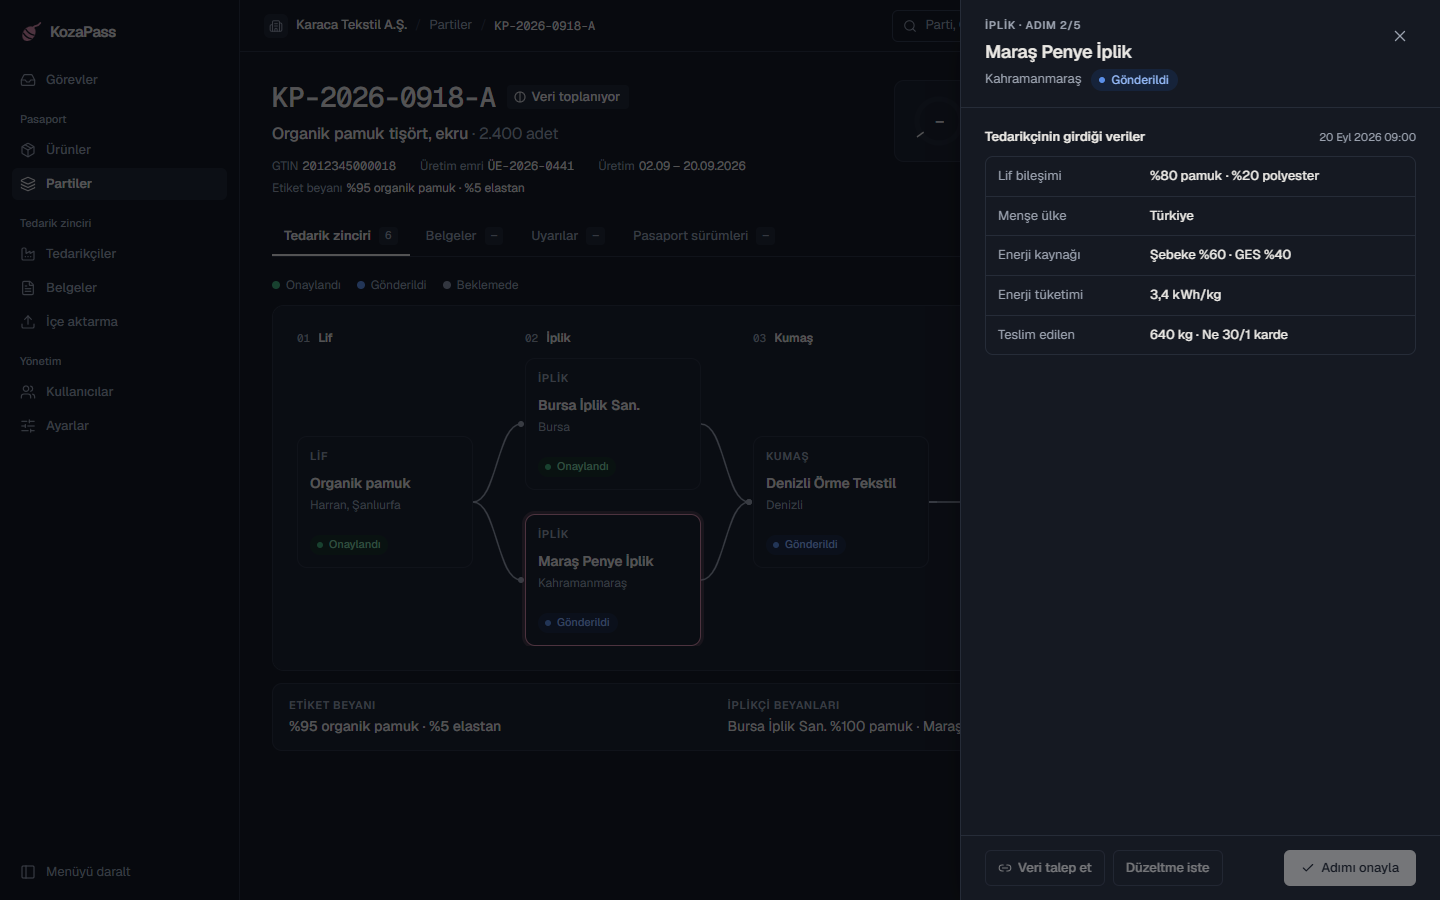
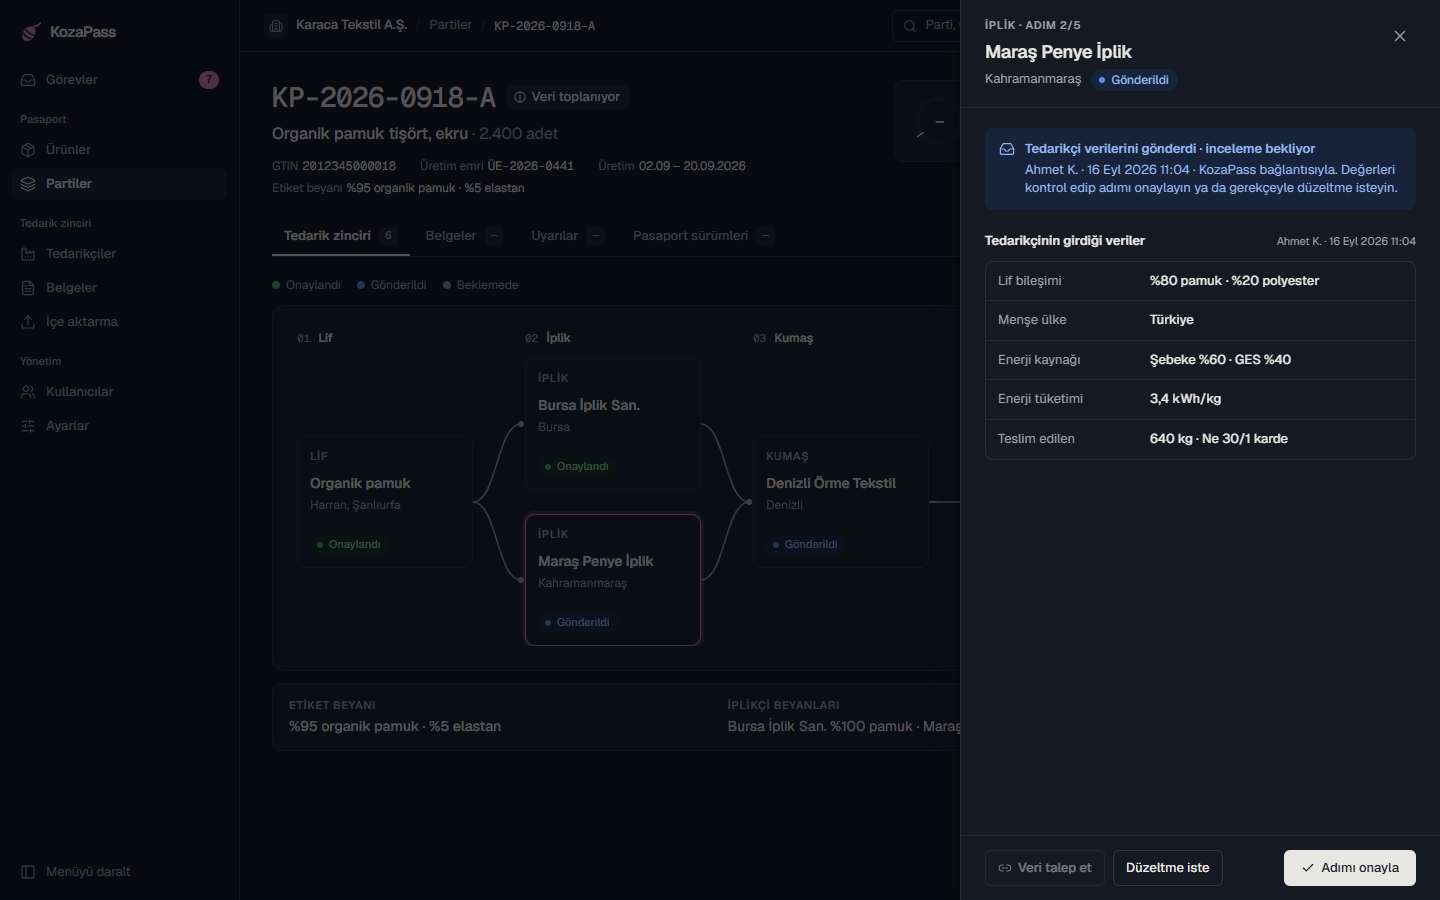
docs: v0.4 panel screenshots next to the design, plan items for M4 (a) and M10

diff --git a/docs/PLAN.md b/docs/PLAN.md
@@ -162,18 +162,18 @@ _Tamamlandı: 10.10.2026 (PR #18–#26). Özet: `docs/haftalik/03-tedarik-zincir
 ### M4 — Veri talebi ve tedarikçi sayfası
 Tasarım: `docs/design/v0.4/` (39–45 tedarikçi sayfası, 46–48 panel). PR sırası: backend (V6, linkler, public uçlar, onay/red, rate limit) → `GET /tasks` → web (a) panel 46/47/48 + rozet → web (b) `/r` sayfası 39–45.
 
-- [ ] **V6:** `data_request`: `sent_to_email` kalkar; `revoked_at`, `revoked_by`, `open_count`, `submitter_name`, `submitter_role` eklenir; adım başına tek açık link (kısmi unique index, `SENT`/`OPENED`). `supply_step`: `rejection_reason`, `rejection_fields` (JSONB), `rejected_at`, `rejected_by`. Yeni `step_event` (istendi, açıldı, gönderildi, onaylandı, reddedildi, geri alındı, menşe girildi; kim, ne zaman): 47a'daki "Selin A. · 17 Eyl" ve M12 denetim izi
-- [ ] **Link:** 32 bayt SecureRandom, base64url; DB'de yalnızca SHA-256 hex. Ham token yalnızca oluşturma cevabında (46a o an); sonra panelde "Yeni link oluştur" (eskiyi geri alır). Geçerlilik 7 gün, süre dolumu okunurken (`expires_at < now`). Link web'de kurulur: `{origin}/r#<token>`. "Gönderim no" `data_request` id'sinden türeyen kısa kod (`KP-R-XXXX`)
-- [ ] **Link oluştur / geri al:** `POST /steps/{id}/requests` (OWNER, ADMIN, EDITOR; adım PENDING veya REJECTED, tedarikçi atanmış, FIBER değil), `POST /requests/{id}/revoke`. Zincir cevabında linkin özeti (durum, son tarih, açılma sayısı; token yok)
-- [ ] **Public:** `GET /public/request` (görünüm; açılma sayısını artırır), `POST /public/request/submit` (tek gönderim; satır kilidi, ikinci gönderim 410). Link sahibi yalnızca kendi adımını görür: üretici firma adı, talebi açan kişinin adı (telefon yok), ürün adı, parti no, adım tipi, son tarih, red gerekçesi ve işaretli alanlar, kendi adımının verisi. Zincirin geri kalanı, diğer tedarikçiler, adım id'leri, GTIN, miktar asla (izinli alan listesi testi). Bilinmeyen token 404; süresi dolmuş / geri alınmış / gönderilmiş 410 + `LINK_EXPIRED` / `LINK_REVOKED` / `ALREADY_SUBMITTED` (44). `Cache-Control: no-store`, `X-Robots-Tag: noindex`, sayfada `Referrer-Policy: no-referrer`
-- [ ] **Gönderim:** çok kez açılır, tek gönderim, taslak yok. Zorunlu: "Gönderen ad soyad" ve adım tipine göre İplik: lif bileşimi, menşe ülke; Kumaş: lif bileşimi, kumaş tipi; Boya: işlem, kimyasal uyumu; Konfeksiyon: menşe ülke. Diğerleri isteğe bağlı (formda "İsteğe bağlı" etiketi, "aksi belirtilmedikçe zorunlu" kalıbı). Adım SUBMITTED, link COMPLETED
-- [ ] **Boya alanları (41, API tasarıma uyar):** `dyeProcess` (REACTIVE, DISPERSE, VAT, PIGMENT, OTHER; OTHER ise `dyeProcessOther` zorunlu, en fazla 80), `shade` (isteğe bağlı), `chemicalStandards` (ZDHC_MRSL, OEKO_TEX_ECO_PASSPORT, BLUESIGN, GOTS_APPROVED, NONE; en az biri, NONE diğerleriyle birlikte seçilemez), boya için `deliveredKg` ("İşlenen miktar"). `process` ve `chemicalCompliance` kalkar; eski anahtarları okuyan kod kalmaz, okuyucu bilinmeyen eski anahtarlarda patlamaz (test), seed güncellenir. Enum çevirileri tr/en/de (pasaportta da kullanılacak)
-- [ ] **Onay / red:** `POST /steps/{id}/approve`, `POST /steps/{id}/reject` (OWNER, ADMIN; yalnızca SUBMITTED). Red: gerekçe zorunlu, isteğe bağlı `fields` (adım tipinin alan adlarıyla whitelist, bilinmeyen alan 400). 47b'deki hazır seçim → alan eşlemesi `packages/shared`'de tek yerde ("Lif oranı uyuşmuyor" → `fiberComposition`; "Belge okunaksız", "Sertifika süresi dolmuş" M5'e kadar gizli). Red → REJECTED → üretici yeni link oluşturur; 45'te gerekçe üstte, önceki veri dolu, işaretli bölüm açılışta görünür (oraya kaydırılır)
-- [ ] **Parti durumu otomatik:** ilk link → COLLECTING; tüm adımlar APPROVED → READY
-- [ ] **Lif menşei (FIBER):** üretici düğüm panelinden girer (40a'daki "Lif bileşimi + menşe" bölüm bileşenleri panelde; tasarım borcu), link gönderilmez
-- [ ] **Rate limit** (uygulama içi, tek instance): public uçlarda IP başına dakikada 30, geçersiz token IP başına dakikada 10, gönderim token başına saatte 10; 429 + `Retry-After`. İstemci IP'si: istemci → Vercel → Render zincirinde Render'ın gördüğü `X-Forwarded-For`'da Vercel'in eklediği hop'tan alınır; istemcinin gönderdiği XFF'ye güvenilmez. Canlı doğrulama (10.10.2026): Render'da `xff=2` (hop sayısı doğru), sabit kaynaktan gelen istekte sınır doğru çalışıyor (10 deneme, 11.'si 429); ama Vercel rewrite'ta istemcinin kendi `X-Forwarded-For`'unu (en azından bazı isteklerde) gerçek IP'yle değiştirmeden geçiriyor, yani ilk eleman taklit edilebilir. Yedek: istemci IP'si kapalı (`-1`); bağlantı başına dakikada 60 açılış, gönderim token başına saatte 10, tüm istekler için dakikada 600 ve geçersiz tokenlar için dakikada 100 genel sayaç
-- [ ] **`GET /tasks`** + rozet sayısı. Gruplar (48a, başlıklar içeriğe uyduruldu): "Onay bekleyen veriler" (SUBMITTED; OWNER, ADMIN), "Takip bekleyen talepler" (son tarihe 2 günden az kalan, süresi dolup gönderilmemiş, düzeltme istenip yeni linki olmayan; açılma sayısı, "Hatırlat" = link içermeyen hazır WhatsApp metni; düzeltme istenen ve süresi dolanlar en üstte), "Eksik adımlar" (tedarikçisi atanmamış adım, menşesi girilmemiş Lif, zinciri olmayan parti). Sertifika süresi M7
-- [ ] **Web (a):** 46a/b/c link kartı ("Linki kopyala", "WhatsApp'ta paylaş": numara varsa `wa.me/<telefon>?text=`), 47a/b inceleme + onay/red, 48a/b Görevler, menü rozeti
+- [x] **V6:** `data_request`: `sent_to_email` kalkar; `revoked_at`, `revoked_by`, `open_count`, `submitter_name`, `submitter_role` eklenir; adım başına tek açık link (kısmi unique index, `SENT`/`OPENED`). `supply_step`: `rejection_reason`, `rejection_fields` (JSONB), `rejected_at`, `rejected_by`. Yeni `step_event` (istendi, açıldı, gönderildi, onaylandı, reddedildi, geri alındı, menşe girildi; kim, ne zaman): 47a'daki "Selin A. · 17 Eyl" ve M12 denetim izi
+- [x] **Link:** 32 bayt SecureRandom, base64url; DB'de yalnızca SHA-256 hex. Ham token yalnızca oluşturma cevabında (46a o an); sonra panelde "Yeni link oluştur" (eskiyi geri alır). Geçerlilik 3, 7 veya 14 gün (46a "Son tarih", varsayılan 7; açık linkte `PATCH /requests/{id}` ile değişir, token aynı kalır, geçmişe giden tarih 409 `DEADLINE_PASSED`; V8), süre dolumu okunurken (`expires_at < now`). Link web'de kurulur: `{origin}/r#<token>`. "Gönderim no" `data_request` id'sinden türeyen kısa kod (`KP-R-XXXX`)
+- [x] **Link oluştur / geri al:** `POST /steps/{id}/requests` (OWNER, ADMIN, EDITOR; adım PENDING veya REJECTED, tedarikçi atanmış, FIBER değil), `POST /requests/{id}/revoke`. Zincir cevabında linkin özeti (durum, son tarih, açılma sayısı; token yok)
+- [x] **Public:** `GET /public/request` (görünüm; açılma sayısını artırır), `POST /public/request/submit` (tek gönderim; satır kilidi, ikinci gönderim 410). Link sahibi yalnızca kendi adımını görür: üretici firma adı, talebi açan kişinin adı (telefon yok), ürün adı, parti no, adım tipi, son tarih, red gerekçesi ve işaretli alanlar, kendi adımının verisi. Zincirin geri kalanı, diğer tedarikçiler, adım id'leri, GTIN, miktar asla (izinli alan listesi testi). Bilinmeyen token 404; süresi dolmuş / geri alınmış / gönderilmiş 410 + `LINK_EXPIRED` / `LINK_REVOKED` / `ALREADY_SUBMITTED` (44). `Cache-Control: no-store`, `X-Robots-Tag: noindex`, sayfada `Referrer-Policy: no-referrer`
+- [x] **Gönderim:** çok kez açılır, tek gönderim, taslak yok. Zorunlu: "Gönderen ad soyad" ve adım tipine göre İplik: lif bileşimi, menşe ülke; Kumaş: lif bileşimi, kumaş tipi; Boya: işlem, kimyasal uyumu; Konfeksiyon: menşe ülke. Diğerleri isteğe bağlı (formda "İsteğe bağlı" etiketi, "aksi belirtilmedikçe zorunlu" kalıbı). Adım SUBMITTED, link COMPLETED
+- [x] **Boya alanları (41, API tasarıma uyar):** `dyeProcess` (REACTIVE, DISPERSE, VAT, PIGMENT, OTHER; OTHER ise `dyeProcessOther` zorunlu, en fazla 80), `shade` (isteğe bağlı), `chemicalStandards` (ZDHC_MRSL, OEKO_TEX_ECO_PASSPORT, BLUESIGN, GOTS_APPROVED, NONE; en az biri, NONE diğerleriyle birlikte seçilemez), boya için `deliveredKg` ("İşlenen miktar"). `process` ve `chemicalCompliance` kalkar; eski anahtarları okuyan kod kalmaz, okuyucu bilinmeyen eski anahtarlarda patlamaz (test), seed güncellenir. Enum çevirileri tr/en/de (pasaportta da kullanılacak)
+- [x] **Onay / red:** `POST /steps/{id}/approve`, `POST /steps/{id}/reject` (OWNER, ADMIN; yalnızca SUBMITTED). Red: gerekçe zorunlu, isteğe bağlı `fields` (adım tipinin alan adlarıyla whitelist, bilinmeyen alan 400). 47b'deki hazır seçim → alan eşlemesi `packages/shared`'de tek yerde ("Lif oranı uyuşmuyor" → `fiberComposition`; "Belge okunaksız", "Sertifika süresi dolmuş" M5'e kadar gizli). Red → REJECTED → üretici yeni link oluşturur; 45'te gerekçe üstte, önceki veri dolu, işaretli bölüm açılışta görünür (oraya kaydırılır)
+- [x] **Parti durumu otomatik:** ilk link → COLLECTING; tüm adımlar APPROVED → READY
+- [x] **Lif menşei (FIBER):** üretici düğüm panelinden girer (40a'daki "Lif bileşimi + menşe" bölüm bileşenleri panelde; tasarım borcu), link gönderilmez
+- [x] **Rate limit** (uygulama içi, tek instance): public uçlarda IP başına dakikada 30, geçersiz token IP başına dakikada 10, gönderim token başına saatte 10; 429 + `Retry-After`. İstemci IP'si: istemci → Vercel → Render zincirinde Render'ın gördüğü `X-Forwarded-For`'da Vercel'in eklediği hop'tan alınır; istemcinin gönderdiği XFF'ye güvenilmez. Canlı doğrulama (10.10.2026): Render'da `xff=2` (hop sayısı doğru), sabit kaynaktan gelen istekte sınır doğru çalışıyor (10 deneme, 11.'si 429); ama Vercel rewrite'ta istemcinin kendi `X-Forwarded-For`'unu (en azından bazı isteklerde) gerçek IP'yle değiştirmeden geçiriyor, yani ilk eleman taklit edilebilir. Yedek: istemci IP'si kapalı (`-1`); bağlantı başına dakikada 60 açılış, gönderim token başına saatte 10, tüm istekler için dakikada 600 ve geçersiz tokenlar için dakikada 100 genel sayaç
+- [x] **`GET /tasks`** + rozet sayısı. Gruplar (48a, başlıklar içeriğe uyduruldu): "Onay bekleyen veriler" (SUBMITTED; OWNER, ADMIN), "Takip bekleyen talepler" (son tarihe 2 günden az kalan, süresi dolup gönderilmemiş, düzeltme istenip yeni linki olmayan; açılma sayısı, "Hatırlat" = link içermeyen hazır WhatsApp metni; düzeltme istenen ve süresi dolanlar en üstte), "Eksik adımlar" (tedarikçisi atanmamış adım, menşesi girilmemiş Lif, zinciri olmayan parti). Sertifika süresi M7
+- [x] **Web (a)** (PR #30): 46a/b/c link kartı ("Linki kopyala", "WhatsApp'ta paylaş": numara varsa `wa.me/<telefon>?text=`), 47a/b inceleme + onay/red, 48a/b Görevler, menü rozeti
 - [ ] **Web (b):** `/r` sayfası 39–45 (mobil öncelikli, 40c masaüstü)
 
 **Kabul:** Üretici link paylaşır, tedarikçi telefondan girişsiz veri girer, üretici onaylar, düğüm yeşile döner.
@@ -224,6 +224,8 @@ Tasarım: `docs/design/v0.4/` (39–45 tedarikçi sayfası, 46–48 panel). PR s
 - [ ] Görsel cila, boş durumlar, yükleniyor durumları
 - [ ] Sunucu uyanık, APK hazır, 5 dakikalık demo senaryosu yazılı ve prova edilmiş
 - [ ] e2e testleri CI'da çalışsın (şu an yalnızca yerelde; `pnpm --filter web exec playwright test`)
+- [ ] Genel 600/dk sayacı kasıtlı doldurulursa herkes 1 dk etkilenir; Vercel IP başlığı doğrulanınca IP bazlıya dönülecek (aşağıdaki madde).
+- [ ] Tedarikçiye isteğe bağlı "ilgili kişi" alanı (v0.4 46a'daki "Ahmet Kaya" kartı, WhatsApp mesajında adıyla hitap): backend, 15'teki diyalog, 14'teki liste. Şimdilik kartta firma adı, mesaj "Merhaba," ile başlar.
 - [ ] Public rate limit için gerçek istemci IP'si: Vercel'in kendi başlığı (`x-real-ip` veya `x-vercel-forwarded-for`) Render'a ulaşıyor mu, canlıda doğrula; ulaşıyorsa `ClientIp` onu okusun ve IP başına sınırlar (M4) yeniden açılsın. Şimdilik genel sayaç + token başına sayaç.
 - [ ] Açılışı hızlandırma / Render araştırması: soğuk başlangıç 100–150 sn ("Started TekpasApplication in" 75–83 sn). Render'da önce/sonra ölç: lazy init, gereksiz auto-config, Flyway validate. Prod'a lazy init kullanıcı onayıyla. Uyuyan sunucuda erken kesilen isteğin uyanmayı iptal edip etmediği canlıda ölçülemedi (cron gün içinde uyanık tutuyor); burada bak.
 
@@ -285,8 +287,11 @@ Tasarım: `docs/design/v0.4/` (39–45 tedarikçi sayfası, 46–48 panel). PR s
 - [ ] **v0.4 düzeltmeleri**, M4: 46a link alanı `kozapass.vercel.app/r#…`; 44'te `destek@kozapass.com` yok; 39 iletişim kartında yalnızca isim, telefon / WhatsApp düğmeleri M12'ye (ayarlar) kadar gizli; 47a'da "Etiket beyanıyla uyumlu", "önceki partiler ortalaması" (M7) ve "Belgelerden okunan alanlar" (M5) gizli; 48a'da sertifika süresi satırı M7; 47b'de belge hazır seçimleri M5'e kadar gizli.
 - [ ] **v0.4 Kumaş ve Konfeksiyon formları**, M4. Tasarımda yalnızca İplik (40) ve Boya (41) var; diğerleri aynı iskeletle, adım tipinin alanlarından kurulur ("aynı iskelet, farklı bölümler").
 
+- [ ] **v0.4 46a/47b/48a uyarlamaları**, PR #30: 46a iletişim kartında kişi yerine firma adı ve baş harfleri (kişi alanı M10); WhatsApp mesajı "Merhaba," ile başlar ve tarihi "… tarihine kadar" diye yazar (Türkçe ek gerekmesin). 47b'nin "… bilgilendirildi" metni "Düzeltme talebi kaydedildi …; tedarikçiye yeni bir bağlantı gönderin" oldu: bildirim yok, tedarikçi yeni linkle öğrenir. 48a'da tasarımda olmayan satır tipleri: "Süresi doldu" (kırmızı, "Yeni bağlantı"), "Menşe yok" ("Menşe gir"); "Hatırlat" WhatsApp'ı numarasız açar (`wa.me/?text=`, görev satırında telefon yok).
+- [ ] **v0.3.1 30**, PR #30. M4 düğmeleri açıldı ("Bir sonraki sürümde" yok); panelin güncel hali v0.4 47a (`impl-v0.4/47a-*`), `impl-v0.3.1/30-*` buna göre yeniden çekildi.
+
 **Ertelenenler** (tasarımda var, verisi sonraki kilometre taşında gelecek):
-- [ ] Menüdeki "Görevler" rozeti (bekleyen görev sayısı): M4'te, `GET /tasks` gelince. O zamana kadar gizli.
+- [x] Menüdeki "Görevler" rozeti (bekleyen görev sayısı), PR #30 (`GET /tasks` `total`; 0'da gizli).
 
 **Tasarım sapması** (tasarım yanlış, uygulama farklı yapacak):
 - [ ] Tasarım v0.3 ekran 10 ("Düğüm paneli — Maraş Penye İplik, veri talep bağlantısı"): tedarikçi veri talebi linki `kozapass.com/v/…` görünüyor. Bu yazı `docs/design/v0.3/KozaPassPanel.dc.html` bileşenindeki örnek `url` sabitinden geliyor, koda taşınmaz. Uygulamada link `https://kozapass.vercel.app/r#<token>` olur (K14, K21). Herkese açık pasaport ise GS1 yolunda kalır: `https://kozapass.vercel.app/01/{gtin}/10/{batch}` (K13).
